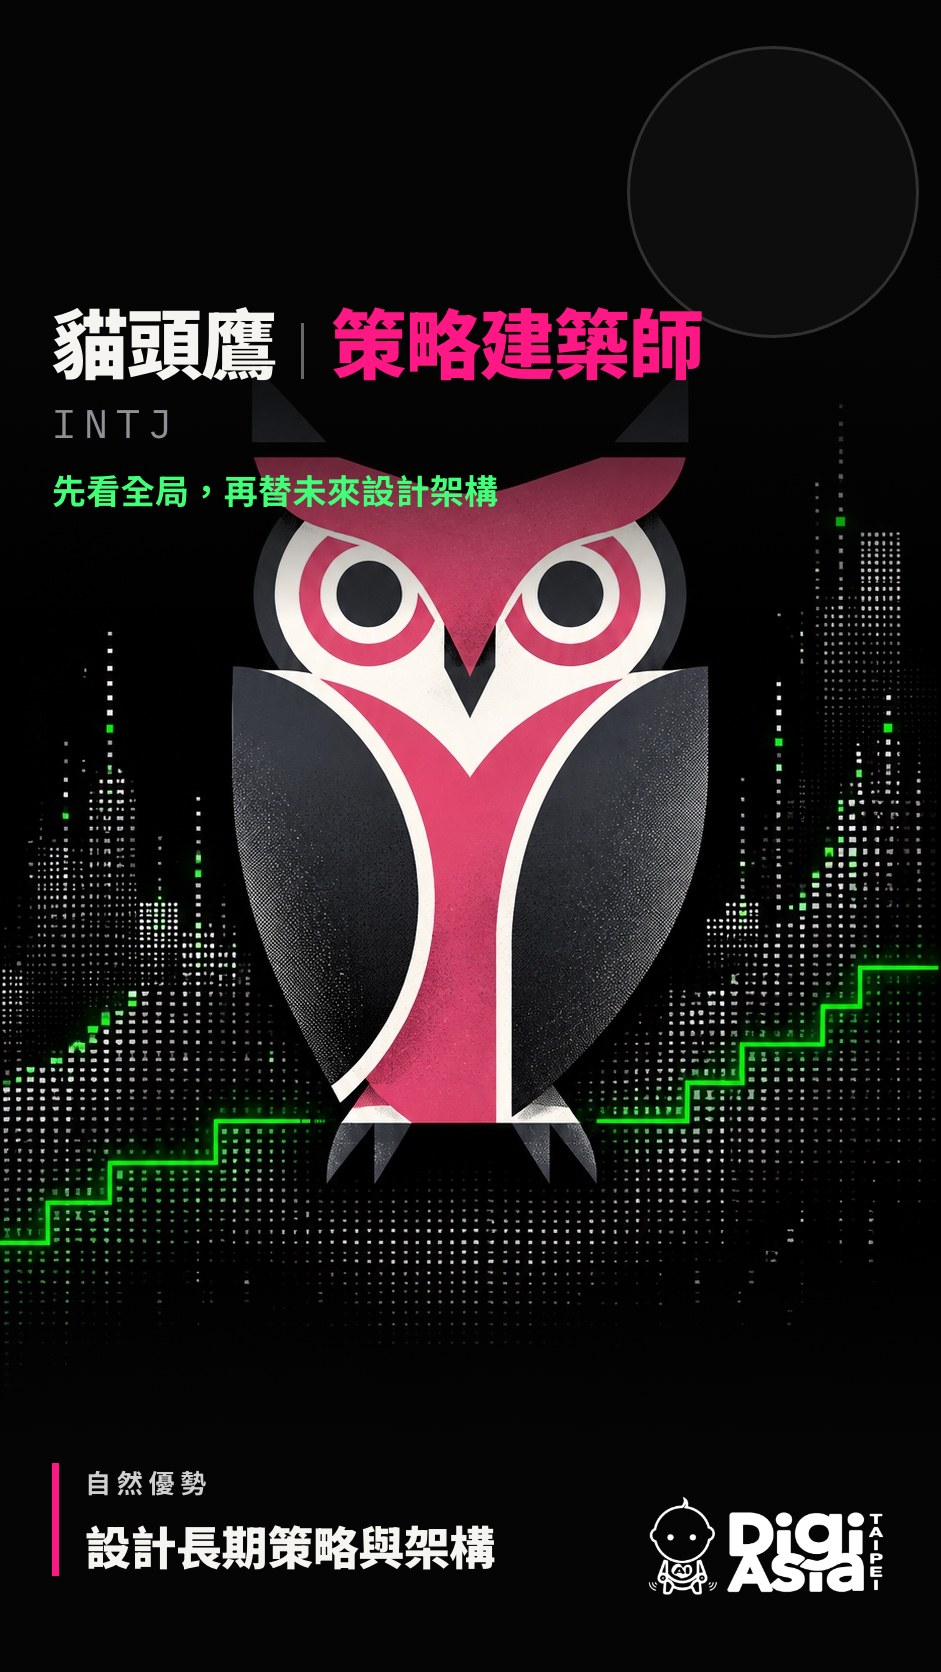
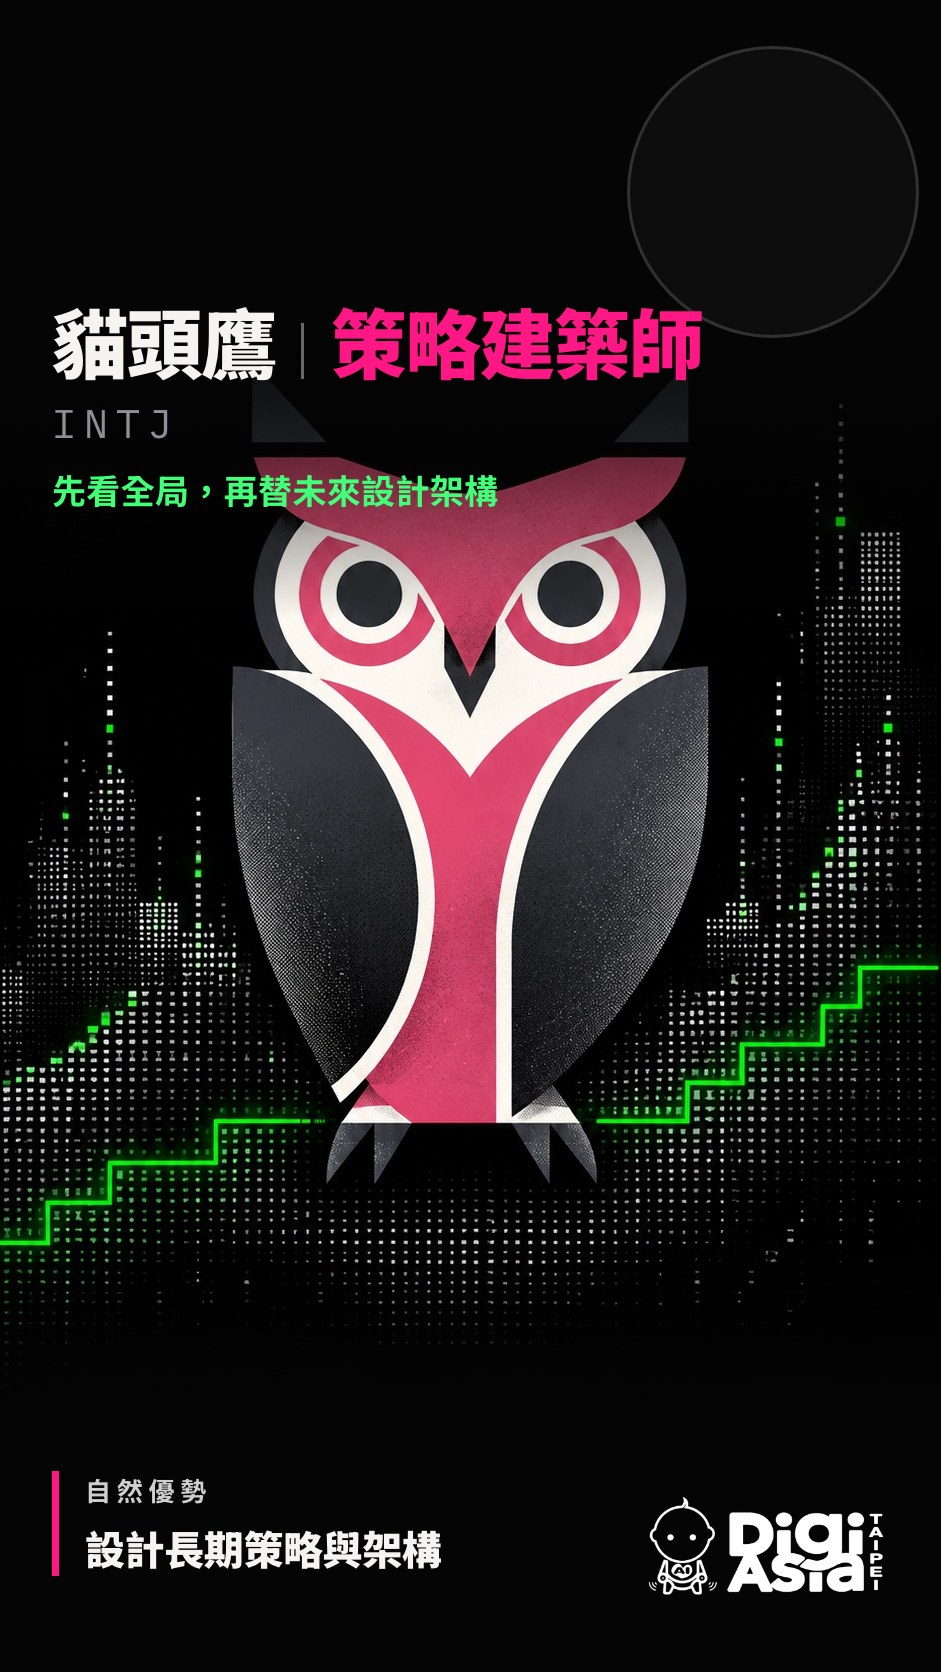
aieq: keep the closing line clear of the event mark
The longest 自然優勢 line ran under the mark on the ESFP card. The line is a
step smaller and its block now stops at x623, where the mark starts at 647.

The renderer measures the widest rendered line against the mark on every
card and refuses to write one with less than 16px of clearance, so new copy
cannot reintroduce this quietly. Tightest card is now ESFP at 47px.

Changed region(s): [[0.0925, 0.8708, 0.5239, 0.9641]]

diff --git a/packages/backend/scripts/render-share-cards.ts b/packages/backend/scripts/render-share-cards.ts
@@ -54,9 +54,10 @@ function page(animal: (typeof AIEQ_ANIMALS)[string], sceneDataUri: string, logoD
   .code{margin-top:16px;font-family:"IBM Plex Mono",monospace;font-weight:400;font-size:40px;
         letter-spacing:.2em;color:#8f8f97}
   .tagline{margin-top:16px;font-size:34px;font-weight:700;line-height:1.45;color:#41ff78;letter-spacing:.01em}
-  .edge{position:absolute;left:52px;bottom:96px;right:72px;border-left:7px solid #ff1785;padding-left:26px}
+  /* Stops short of the event mark: 941 - 318 = 623, and the mark starts at 647. */
+  .edge{position:absolute;left:52px;bottom:96px;right:318px;border-left:7px solid #ff1785;padding-left:26px}
   .edge small{display:block;font-size:26px;font-weight:700;letter-spacing:.22em;color:#cfcfcf;margin-bottom:14px}
-  .edge p{font-size:46px;font-weight:900;line-height:1.35;letter-spacing:-.01em}
+  .edge p{font-size:40px;font-weight:900;line-height:1.34;letter-spacing:-.01em}
   /* The event mark sits where the 2026-09-11 comp put it. Swap the source file for the
      official artwork when it arrives and re-run this script; nothing else has to change. */
   .event-logo{position:absolute;right:56px;bottom:76px;width:238px}
@@ -87,9 +88,21 @@ for (const animal of Object.values(AIEQ_ANIMALS)) {
   await tab.evaluate(() => document.fonts.ready)
   await tab.waitForTimeout(220)
   const file = animal.shareCardPath.split('/').pop() as string
+  // A long closing line used to run under the event mark; refuse to ship a card where it still does.
+  const clearance = await tab.evaluate(() => {
+    const text = document.querySelector('.edge p') as HTMLElement
+    const mark = document.querySelector('.event-logo') as HTMLElement
+    const range = document.createRange()
+    range.selectNodeContents(text)
+    const lines = [...range.getClientRects()]
+    const widest = Math.max(...lines.map((r) => r.right))
+    const m = mark.getBoundingClientRect()
+    return { gap: Math.round(m.left - widest), lines: lines.length }
+  })
+  if (clearance.gap < 16) throw new Error(`${file}: 「${animal.edge}」 comes within ${clearance.gap}px of the event mark`)
   await writeFile(join(outDir, file), await tab.screenshot({ type: 'jpeg', quality: 88 }))
   n += 1
-  console.log(`  ${file}  ${animal.name}・${animal.title}  ${animal.displayCode}`)
+  console.log(`  ${file.padEnd(16)} ${animal.edge.padEnd(14)} ${clearance.lines} 行・距標誌 ${clearance.gap}px`)
 }
 await browser.close()
 console.log(`\n${n} 張分享卡已重出（941x1672，頭像圈留空）`)
